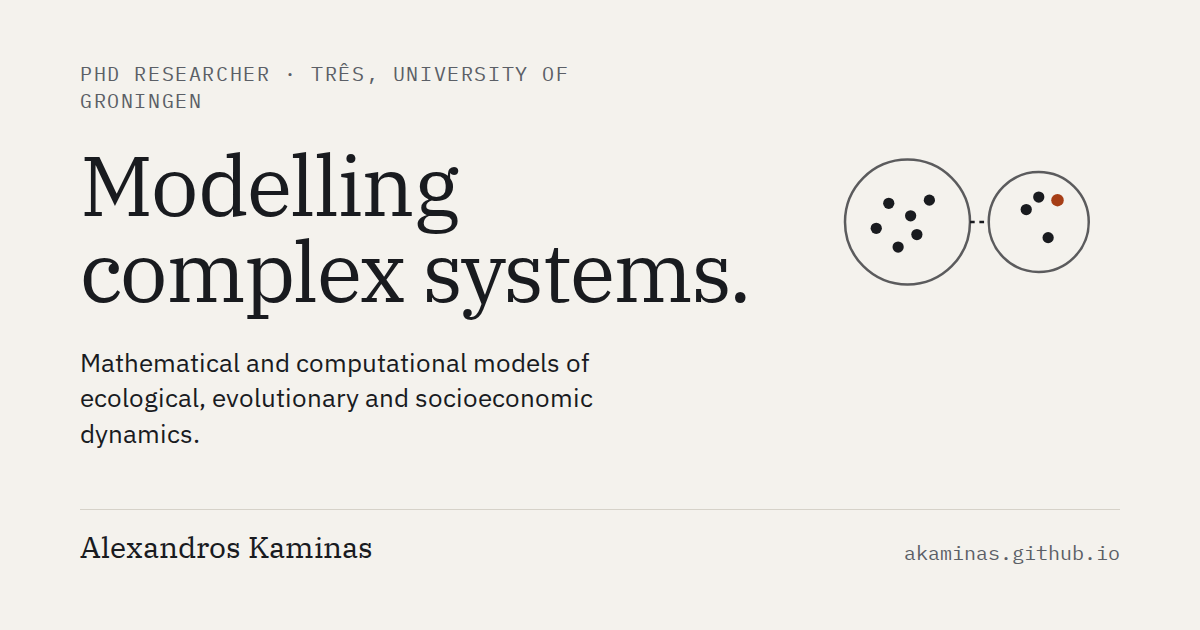
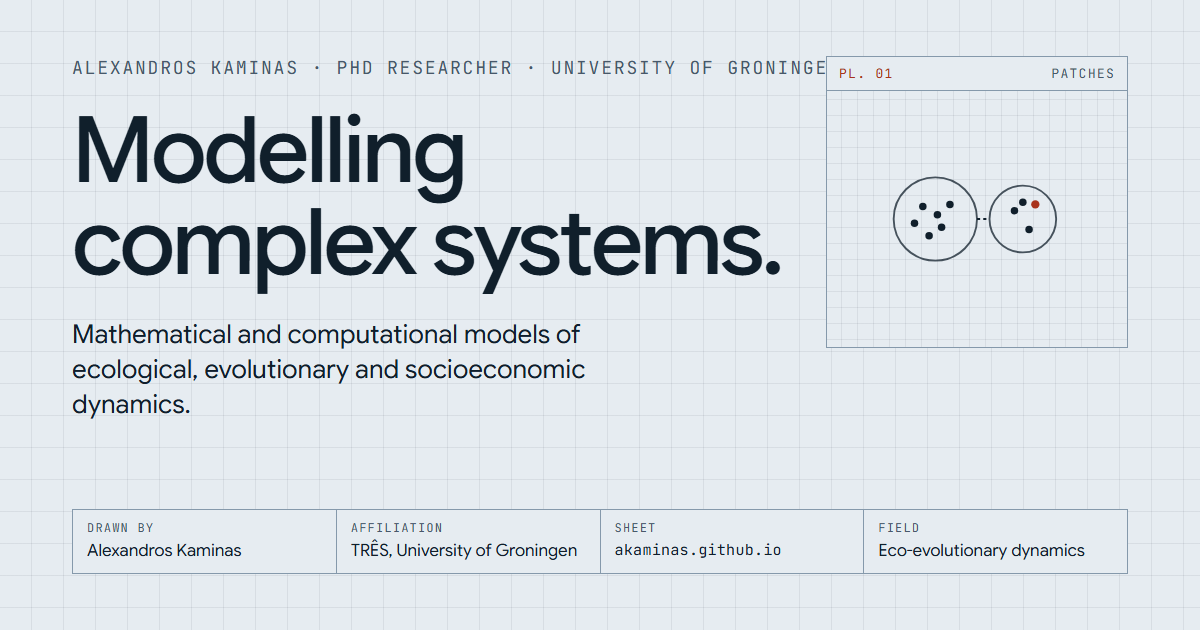
fix: margin notes stack under their label; redraw the social preview as a sheet

diff --git a/scripts/og.html b/scripts/og.html
@@ -35,7 +35,7 @@
   </head>
   <body>
     <div class="wrap">
-      <p class="label mono">Alexandros Kaminas · PhD researcher · TRÊS, University of Groningen</p>
+      <p class="label mono">Alexandros Kaminas · PhD researcher · University of Groningen</p>
       <h1>Modelling complex systems.</h1>
       <p class="lede">Mathematical and computational models of ecological, evolutionary and socioeconomic dynamics.</p>
 

diff --git a/src/styles/global.css b/src/styles/global.css
@@ -411,10 +411,12 @@ abbr[title] {
 @media (min-width: 52rem) {
   .sec__margin {
     flex-direction: column;
+    flex-wrap: nowrap;
     align-items: flex-start;
     gap: var(--space-1);
   }
   .sec__note {
+    flex-basis: auto;
     max-width: 100%;
     align-self: stretch;
   }
